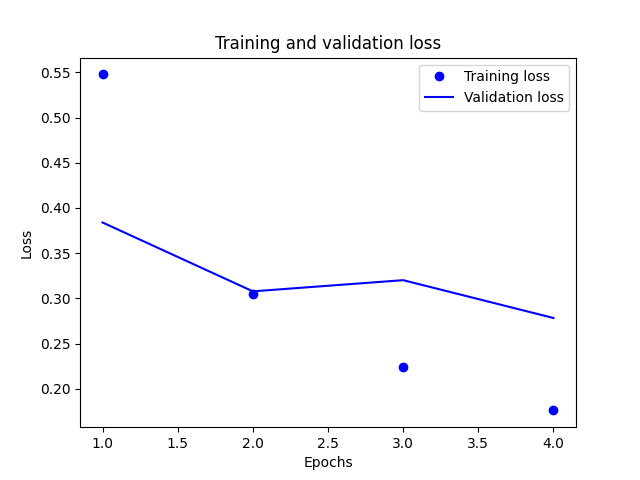
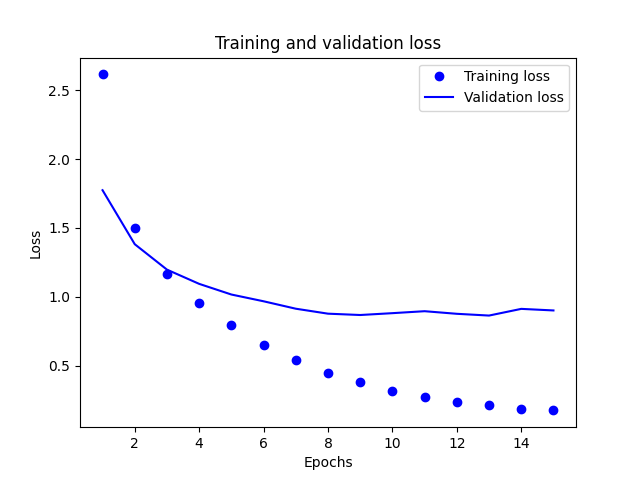
Add newswire topic classification model

diff --git a/newswire_topic_classifier.py b/newswire_topic_classifier.py
@@ -1,0 +1,121 @@
+from tensorflow.keras.datasets import reuters
+from tensorflow import keras
+from tensorflow.keras import layers
+from tensorflow.keras.utils import to_categorical
+import tensorflow as tf
+import numpy as np
+import matplotlib.pyplot as plt
+
+# Num_words = We are selecting olny top 10.000 words that appears more frequently.
+(train_data, train_labels), (test_data, test_labels) = reuters.load_data(num_words=10000)
+
+def vectorize_dataset(sequences, dimension=10000):
+    # The shape will be length of the dataset and max words that one sample can contain (50000(reviews=rows), 10000(words per review=columns)).
+    results = create_np_zero_array_with_dataset_shape(sequences, dimension)
+
+    return set_to_one_index_that_contain_words(results, sequences)   
+
+def create_np_zero_array_with_dataset_shape(dataset, max_words):
+    return np.zeros((len(dataset), max_words))
+
+def set_to_one_index_that_contain_words(np_array, dataset):
+    for datasetIndex, review in enumerate(dataset):
+        for wordIndex in review:
+            np_array[datasetIndex, wordIndex] = 1
+
+    return np_array
+
+vectorized_train_data = vectorize_dataset(train_data)
+
+vectorized_test_data = vectorize_dataset(test_data)
+
+vectorized_train_labels = to_categorical(train_labels)
+
+vectorized_test_labels = to_categorical(test_labels)
+
+# Model definition
+model = keras.Sequential([
+    layers.Dense(64, activation="relu"),
+    layers.Dense(64, activation="relu"),
+    layers.Dense(46, activation="softmax")
+])
+
+# Model compiling
+model.compile(
+    optimizer="rmsprop",
+    loss="categorical_crossentropy",
+    metrics=["accuracy"]
+)
+
+validation_train_data = vectorized_train_data[:1000]
+
+partial_train_data = vectorized_train_data[1000:]
+
+validation_train_labels = vectorized_train_labels[:1000]
+
+partial_train_labels = vectorized_train_labels[1000:]
+
+# # Execute the training
+train_history = model.fit(
+    partial_train_data,
+    partial_train_labels,
+    epochs=15,
+    batch_size=512,
+    validation_data=(validation_train_data, validation_train_labels
+    )
+)
+
+train_history_dict = train_history.history
+
+# # Plotting train history data
+loss_values = train_history_dict["loss"]
+
+validation_loss_values = train_history_dict["val_loss"]
+
+epochs = range(1, len(loss_values) + 1)
+
+plt.plot(epochs, loss_values, "bo", label="Training loss")
+
+plt.plot(epochs, validation_loss_values, "b", label="Validation loss")
+
+plt.title("Training and validation loss")
+
+plt.xlabel("Epochs")
+
+plt.ylabel("Loss")
+
+plt.legend()
+
+plt.savefig("training_validation_loss.png")
+
+# Plotting train accuracy
+
+plt.clf()
+
+accuracy = train_history_dict["accuracy"]
+
+validation_accuracy = train_history_dict["val_accuracy"]
+
+plt.plot(epochs, accuracy, "bo", label="Accuracy")
+
+plt.plot(epochs, validation_accuracy, "b", label="Validation Accuracy")
+
+plt.title("Training and validation accuracy")
+
+plt.xlabel("Epochs")
+
+plt.ylabel("Accuracy")
+
+plt.legend()
+
+plt.savefig("training_accuracy.png")
+
+results = model.evaluate(vectorized_test_data, vectorized_test_labels)
+
+print(results)
+
+
+
+
+
+
